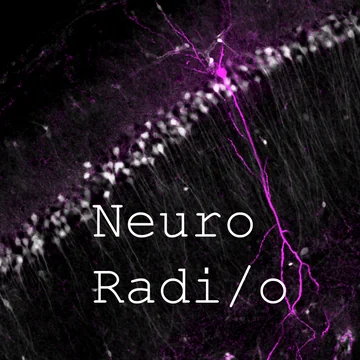
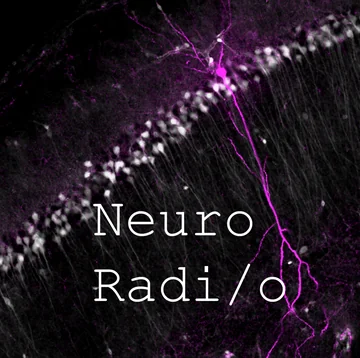
Preserve full homepage cover and refine archive search copy

diff --git a/_layouts/default.html b/_layouts/default.html
@@ -25,7 +25,7 @@
   <meta name="twitter:image:alt" content="NeuroRadio podcast cover art">
   <link rel="icon" type="image/png" sizes="32x32" href="{{ '/assets/favicon-32.png' | relative_url }}">
   <link rel="apple-touch-icon" sizes="180x180" href="{{ '/assets/apple-touch-icon.png' | relative_url }}">
-  <link rel="stylesheet" href="{{ '/styles.css?v=20261120' | relative_url }}">
+  <link rel="stylesheet" href="{{ '/styles.css?v=20261124' | relative_url }}">
   <script async src="https://www.googletagmanager.com/gtag/js?id=G-Q7ECVGTMX6"></script>
   <script>
     window.dataLayer = window.dataLayer || [];

diff --git a/styles.css b/styles.css
@@ -282,9 +282,8 @@ h3 {
 }
 
 .latest-art img {
-  aspect-ratio: 1 / 1;
   display: block;
-  object-fit: cover;
+  height: auto;
   width: 100%;
 }
 
@@ -455,11 +454,6 @@ h3 {
 .archive-search-controls input {
   flex: 1;
   min-width: 0;
-}
-
-.archive-topics p {
-  font-weight: 700;
-  margin: 0 0 8px;
 }
 
 .archive-topics a {
